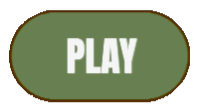
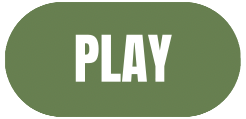
Updated button design and added button animation
- updated play button
- updated settings button
- added x button in gameScreen
- added hover animation to all buttons

diff --git a/dev/screens/components/Button.js b/dev/screens/components/Button.js
@@ -5,6 +5,18 @@ class Button {
     this.w = w;
     this.h = h;
     this.img = img;
+    this.maxW = w + 10;
+    this.maxH = h + 10;
+  }
+
+  update() {
+    this.draw();
+    if (this.isHovered()) {
+      this.growBtn();
+    }
+    else if (!this.isHovered()) {
+      this.shrinkBtn()
+    }
   }
 
   draw() {
@@ -13,11 +25,23 @@ class Button {
   }
 
   isHovered() {
-    return (
-      mouseX > this.x - this.w / 2 &&
+    return (mouseX > this.x - this.w / 2 &&
       mouseX < this.x + this.w / 2 &&
       mouseY > this.y - this.h / 2 &&
-      mouseY < this.y + this.h / 2
-    );
+      mouseY < this.y + this.h / 2)      
+  }
+
+  growBtn() {
+    if (this.w < this.maxW && this.h < this.maxH) {
+      this.w += 10;
+      this.h += 10;
+    }
+  }
+
+  shrinkBtn() {
+    if (this.w == this.maxW && this.h == this.maxH) {
+      this.w -= 10;
+      this.h -= 10;
+    }
   }
 }

diff --git a/dev/screens/MenuScreen.js b/dev/screens/MenuScreen.js
@@ -17,8 +17,8 @@ class MenuScreen extends Screen {
   onEnter() {
     console.log("Menu is now active");
 
-    this.startBtn = new Button(width * 0.5, height * 0.45, 199, 109, Assets.playBtn); // 219, 129
-    this.settingsBtn = new Button(width * 0.5, height * 0.6, 199, 109, Assets.settingsBtn);
+    this.startBtn = new Button(width * 0.5, height * 0.45, 246 * 0.9, 119 * 0.9, Assets.playBtn);
+    this.settingsBtn = new Button(width * 0.5, height * 0.6, 236 * 0.9, 119 * 0.9, Assets.settingsBtn);
   }
 
   draw() {
@@ -66,9 +66,8 @@ class MenuScreen extends Screen {
     imageMode(CENTER);
     image(this.wildSlideLogo, width / 2, height * 0.3, this.wildSlideLogo.width, this.wildSlideLogo.height);
 
-    this.startBtn.draw();
-    this.settingsBtn.draw();
-
+    this.startBtn.update();
+    this.settingsBtn.update();
   }  
 
   keyPressed() {

diff --git a/dev/screens/GameScreen.js b/dev/screens/GameScreen.js
@@ -17,6 +17,8 @@ class GameScreen extends Screen {
       150,
       () => this.onPuzzleSolved()
     );
+
+    this.xBtn = new Button(40, 40, 252 * 0.3, 229 * 0.3, Assets.xBtn);
   }
 
   onPuzzleSolved() {
@@ -41,6 +43,8 @@ class GameScreen extends Screen {
     this.puzzle.draw();
     pop();
 
+    this.xBtn.update();
+
     // add to timer
     if(frameCount % 60 == 0) {
       this.timer++;
@@ -53,5 +57,11 @@ class GameScreen extends Screen {
       manager.switchTo("win", true);
     }
     this.puzzle.handleInput(key);
+  }
+
+  mousePressed() {
+    if (this.xBtn.isHovered()) {
+      manager.switchTo("menu", true);
+    }
   }
 }

diff --git a/dev/assets.js b/dev/assets.js
@@ -12,8 +12,8 @@ const Assets = {
 
 function loadAssets() {
   Assets.playBtn = loadImage('assets/ui-assets/playbtn.png');
-  Assets.exitBtn = loadImage('assets/ui-assets/exitbtn.png');
   Assets.settingsBtn = loadImage('assets/ui-assets/settingsbtn.png');
+  Assets.xBtn = loadImage('assets/ui-assets/xBtn.png');
 
   Assets.logoImg = loadImage('assets/decoratives/wildslidelogo2.png'); // LEFT OFF HERE
   Assets.backgroundImg = loadImage('assets/decoratives/background.png');

diff --git a/dev/screens/WinScreen.js b/dev/screens/WinScreen.js
@@ -32,7 +32,7 @@ class WinScreen extends Screen {
     fill(0, 150);
     rect(0, 0, width, height);
 
-    fill(209, 246, 168);
+    fill(209, 246, 168); //#D1F6A8
     rect(width / 2 - 150, height / 2 - 180, 300, 400, 10);
 
     // text
